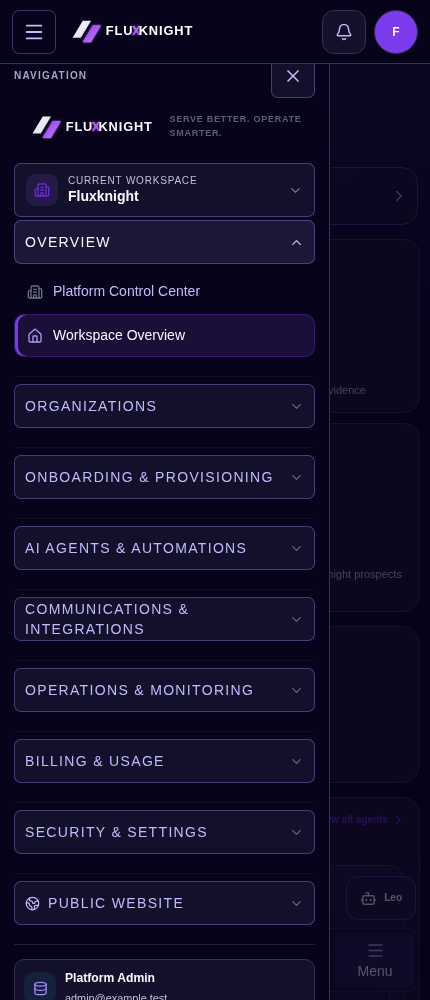
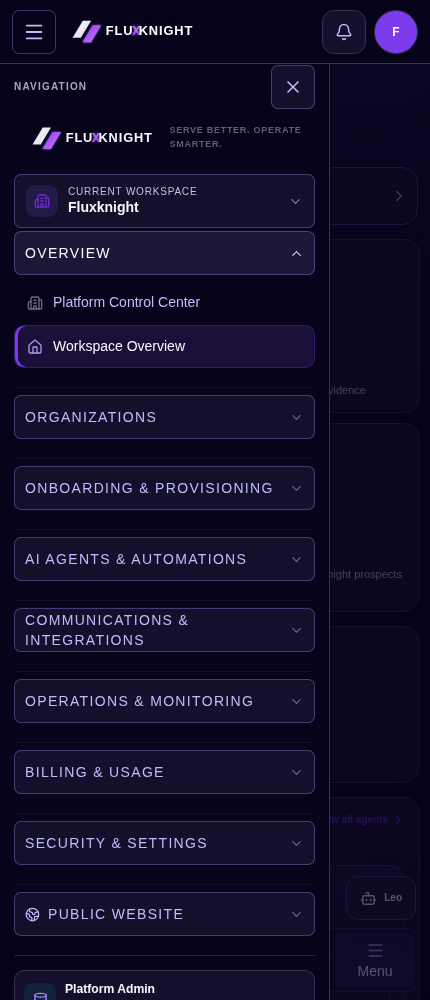
Record reviewed Ubuntu references and final local UI verification

diff --git a/tests/responsive/dashboard.spec.ts b/tests/responsive/dashboard.spec.ts
@@ -194,6 +194,10 @@ for (const route of ["/dashboard", "/dashboard/clients"]) {
       const close=page.getByRole("dialog",{name:"Admin navigation"}).getByRole("button",{name:"Close navigation menu",exact:true});
       expect((await close.locator("svg").boundingBox())!.width).toBeGreaterThanOrEqual(16);
       await close.click();await expect(menu).toBeFocused();await menu.click();
+      await expect(close).toBeFocused();
+      // Capture the top of the scrollable navigation after focus settles.
+      // This changes the documented scroll state, not the rendered content.
+      await page.getByRole("dialog",{name:"Admin navigation"}).evaluate(el=>el.scrollTo({top:0,behavior:"instant"}));
       await captureState(page, testInfo, "mobile-navigation");
       await page.keyboard.press("Escape");
       await expect(menu).toBeFocused();

diff --git a/docs/phase23-closure/checklist.md b/docs/phase23-closure/checklist.md
@@ -40,13 +40,15 @@ All listed browser suites use the six target widths unless explicitly stated oth
 
 The initial six demo mismatches reproduced on the verified main revision. The expanded run also identified admin-navigation/overview and general-business captures predating the approved Phase 4–5 releases. The original images are preserved; they are not overwritten or used to represent new screens.
 
-Changed released views use a versioned `docs/phase2-evidence/after/phase23-reviewed/` reference set with image hashes and a recorded implementation review in `tests/responsive/phase23-visual-review.json`. Existing industry and unchanged dialog/drawer goldens retain their original paths/review. Candidate capture is explicit and separate from comparison; normal test runs cannot generate missing baselines or approve hashes. The 0.2% comparison budget is unchanged. Initial hosted comparisons passed 18 admin/shared cases and failed all 24 tenant cases because native system-font substitution differs between workspace Debian and Ubuntu 26.04. Separate Ubuntu tenant references require explicit candidate capture, inspection and hash review; they cannot be auto-approved by CI. Original workspace references remain available. Only Next.js development tooling is hidden; product content is not masked. Full-page fixed-chrome capture artifacts are supplemented by viewport captures and geometry/focus checks. Bounded table/tab scrolling is intentional and is distinguished from page overflow.
+Changed released views use a versioned `docs/phase2-evidence/after/phase23-reviewed/` reference set with image hashes and a recorded implementation review in `tests/responsive/phase23-visual-review.json`. Existing industry and unchanged dialog/drawer goldens retain their original paths/review. Candidate capture is explicit and separate from comparison; normal test runs cannot generate missing baselines or approve hashes. The 0.2% comparison budget is unchanged. Initial hosted comparisons passed 18 admin/shared cases and failed all 24 tenant cases because native system-font substitution differs between workspace Debian and Ubuntu 26.04. The 36 separate Ubuntu tenant references were explicitly captured in run 44876885454, inspected in industry contact sheets/native-resolution details, and hash-reviewed in `tests/responsive/phase23-ubuntu-review.json`; CI cannot auto-approve them. Original workspace references remain available. Only Next.js development tooling is hidden; product content is not masked. Two diagnostic admin-navigation comparisons also exposed inconsistent capture scroll positions. Captures now wait for focus, select the top scroll state and use reviewed top-of-menu references; no product content is hidden. Full-page fixed-chrome capture artifacts are supplemented by viewport captures and geometry/focus checks. Bounded table/tab scrolling is intentional and is distinguished from page overflow.
 
 The general-tenant fixture intentionally displays unavailable wallet/plan and setup-required recovery states; those screenshots do not demonstrate healthy billing. Separate billing fixtures cover successful data responses.
 
 The original audits identify the defects before changes; this report and the review JSON identify which released changes superseded the old references. Baseline review is an implementation review, not a claim that a stakeholder reviewed every screenshot.
 
 ## Checks and results
+
+Local settings/motion: **138 passed**. Local visual comparisons after capture-state stabilization: **42 passed**. Hosted product candidate: **138 settings/motion, 42 team, 144 control-center and 45 Leo Chromium/WebKit cases passed**, plus 22 focused unit assertions and the existing build/billing/Maia/Leo execution/concurrency jobs. Ubuntu comparison on the final reference commit is a release gate recorded in PR checks.
 
 Current run results and exact hosted candidate are recorded in `results.json` and the linked PR. Candidate screenshot capture is not counted as a successful visual comparison. Interrupted diagnostic runs and the initial reference mismatches are not relabelled as passes.
 
@@ -74,3 +76,24 @@ Initial repository-wide ESLint: **445 errors, 72 warnings across 149 files with 
 ## Overall closure rule
 
 Record engineering checks that pass as closed within their tested scope. Keep global lint debt and unavailable hosted/hardware acceptance explicit. Do not label the entire repository or every business workflow “fully verified” merely because UI fixtures pass. Production merge/deployment status is recorded from actual source/deployment readback in the PR.
+
+## Definition-of-done disposition
+
+| Item | Disposition |
+| --- | --- |
+| 1 Purple identity | Verified by token/contrast contracts and rendered references. |
+| 2 Shared component consistency | Verified on the shared demo and representative migrated controls. |
+| 3 Settings and campaign readability | Verified through six-width settings/template cases, including long identifiers and errors. |
+| 4 Button dimensions/alignment | Verified in layout and interaction checks; icon-padding defect repaired. |
+| 5 Long-content containment | Verified on campaign/property/organization/email fixtures at all six widths. |
+| 6 Admin/tenant shells | Six-width geometry, navigation, focus and environment-specific visual comparisons. |
+| 7 Existing industries | Distinct overviews preserved; synthetic industry, authorization and regression coverage passed. This is not every live customer workflow. |
+| 8 Consistent motion | Existing motion tokens and reduced-motion behavior tested; no new animation dependency. |
+| 9 Real Maia/Leo state | Observed-event and failure/retry tests passed with mocked providers; configuration is not labelled live. |
+| 10 Accessibility/reduced motion | Labels, announcements, focus, keyboard, contrast contracts, text scaling and browser-engine pinch checked. Not a full assistive-technology lab certification. |
+| 11 Automated checks | Scoped checks pass; repository-wide lint remains an explicit open exception. Final exact-head results are in PR checks. |
+| 12 Visual evidence | Original audit images retained; reviewed/hash-guarded workspace and Ubuntu images plus fresh CI artifacts. |
+| 13 PR/preview | PR #447; preview source and HTTP/CSS checks recorded in results/PR. |
+| 14 Production gate | Existing user release approval applies. This document records pre-release verification; final merge, production commit and deployment readback are in PR #447. No customer-data/provider mutation is part of this release. |
+
+The final release receipt is maintained in [PR #447](https://github.com/limitlessnx/agent-website-2/pull/447), avoiding a second code deployment solely to record the outcome of the first. Measured client simulation results are in [client-performance.json](client-performance.json).

diff --git a/docs/phase23-closure/visual-evidence.md b/docs/phase23-closure/visual-evidence.md
@@ -16,3 +16,5 @@ Synthetic rendered pages only. Historical audit images are preserved and are not
 The historical overview predates the released Phase 4 navigation; it is context for the original audit, not an immediate before image of this PR. Current captures include the icon-padding and availability-label corrections. Existing industry comparisons continue using their original reviewed goldens.
 
 General tenant references intentionally contain wallet/plan unavailable and setup-required feedback. Successful billing data, loading, errors, retries and scoped permissions are exercised separately. Full-page fixed navigation can appear midway through long content; viewport captures and geometry checks supplement these images.
+
+[Ubuntu tenant references](../phase2-evidence/after/phase23-ubuntu/) · [Ubuntu image hashes and review](../../tests/responsive/phase23-ubuntu-review.json). The same six widths are compared against environment-specific native-font references; original workspace images remain unchanged.
